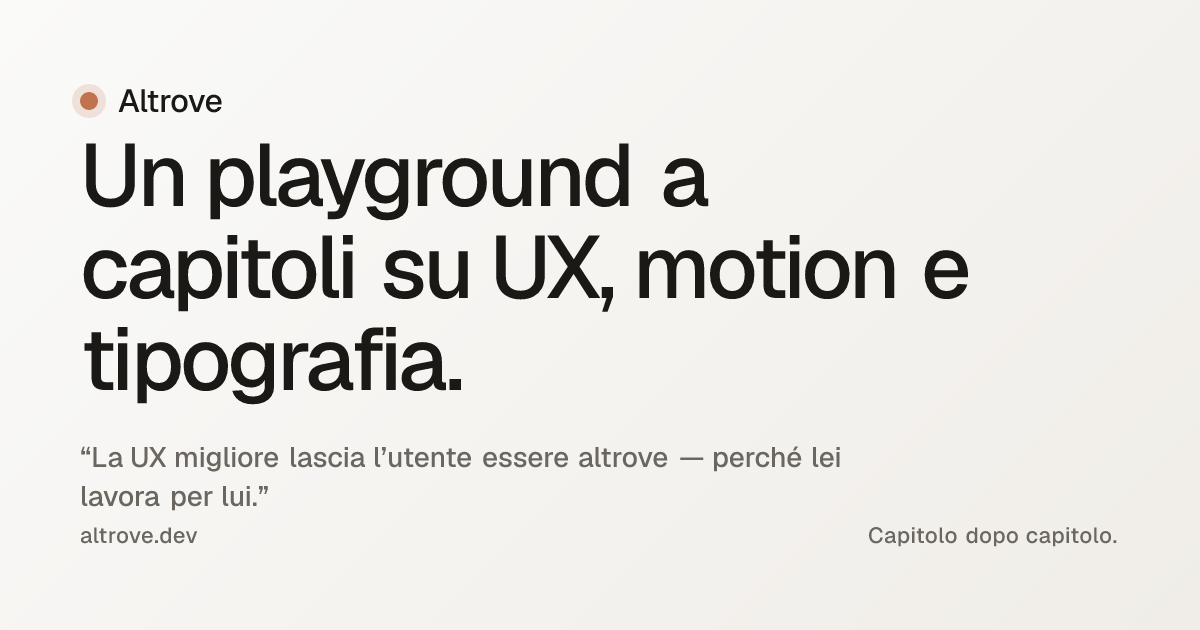
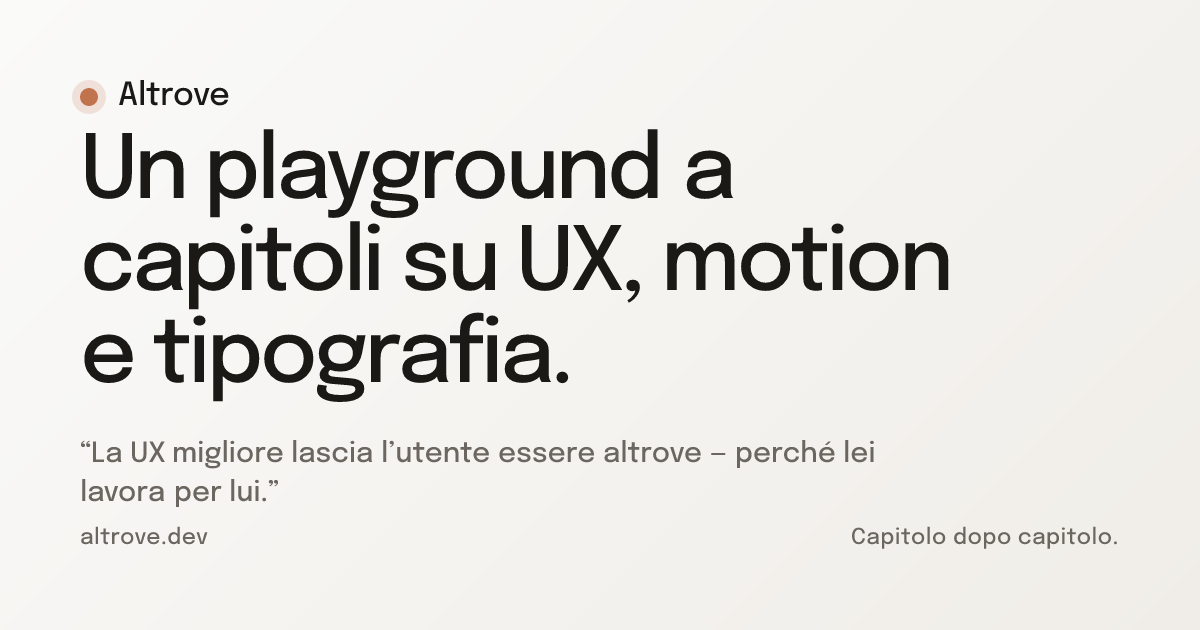
🔤 Swap typefaces: Geist → Epilogue (sans) + Inconsolata (mono)
Replaces the font stack across imports, tokens, OG generation and docs.
Verified in-browser that Epilogue genuinely composes the OpenType
features chapter 08's demo relies on (diagonal fractions + tabular
figures) and exposes a 100–900 wght axis, so demos 08.c/08.d keep
working honestly; updated their prose and the dead Geist-specific
feature-settings in typography.css. Regenerated og-default.png in
Epilogue and dropped the now-unused @fontsource geist packages.

diff --git a/src/styles/typography.css b/src/styles/typography.css
@@ -1,25 +1,19 @@
 /* ─────────────────────────────────────────────────────────────
    Altrove · typography.css — la voce del progetto.
 
-   Geist Variable per tutto. Le differenze le fa il peso, il
-   tracking e la dimensione, non famiglie diverse.
+   Epilogue per il testo, Inconsolata per il monospazio. Nel sans
+   le differenze le fa il peso, il tracking e la dimensione.
    ───────────────────────────────────────────────────────────── */
 
 @layer base {
   html {
     font-family: var(--font-sans);
     font-size: 16px;
-    /* Geist supporta queste opentype features:
-       cv11 = miglior 'a' singolo livello
-       ss03 = '0' con slash (utile per tabelle/cifre miste)
-       ss04 = ligature stilistiche tenui
-       Lo lasciamo discreto — le features attivano la "voce". */
-    font-feature-settings:
-      'cv11' 1,
-      'ss03' 1,
-      'ss04' 1;
-    /* Numeri tabulari per UI con cifre allineate */
-    font-variant-numeric: oldstyle-nums proportional-nums;
+    /* Le feature che Epilogue attiva di default (kern, legature comuni)
+       bastano. Niente set stilistici forzati a livello globale: le
+       feature OpenType si impostano dove servono davvero — vedi il
+       cap. 08, che le verifica nel font prima di prometterle. */
+    font-variant-numeric: proportional-nums;
   }
 
   body {
@@ -101,7 +95,6 @@
 
   code, kbd, samp, pre {
     font-family: var(--font-mono);
-    font-feature-settings: 'ss03' 1; /* zero con slash, leggibile */
   }
 
   code {

diff --git a/src/styles/tokens.css b/src/styles/tokens.css
@@ -47,8 +47,8 @@
   --accent-on:   light-dark(oklch(0.99 0.005 var(--hue-accent)), oklch(0.18 0.02 var(--hue-accent)));
 
   /* ═══════════ TIPOGRAFIA ═══════════ */
-  --font-sans:    'Geist Variable', ui-sans-serif, system-ui, -apple-system, 'Segoe UI', sans-serif;
-  --font-mono:    'Geist Mono Variable', ui-monospace, 'SF Mono', Consolas, 'Liberation Mono', monospace;
+  --font-sans:    'Epilogue Variable', ui-sans-serif, system-ui, -apple-system, 'Segoe UI', sans-serif;
+  --font-mono:    'Inconsolata Variable', ui-monospace, 'SF Mono', Consolas, 'Liberation Mono', monospace;
   --font-display: var(--font-sans);
 
   /* Scala fluida (clamp(min, ideal, max)) — base 16px, ratio ~1.2 */
@@ -78,7 +78,7 @@
   --tracking-wide:    0.04em;
   --tracking-wider:   0.12em;
 
-  /* Pesi (Geist Variable supporta 100–900) */
+  /* Pesi (Epilogue Variable supporta 100–900) */
   --weight-light:     300;
   --weight-regular:   400;
   --weight-medium:    500;

diff --git a/MISSION.md b/MISSION.md
@@ -79,7 +79,8 @@ Quattro preset (subtle / gentle / snappy / expressive), usati con coerenza. Nien
 | **Astro 6** | Content Collections mappano i capitoli, View Transitions API per le animazioni di navigazione, Islands per le interazioni complesse |
 | **CSS nativo** | `@layer`, OKLCH, `light-dark()`, `clamp()`, container queries — la palestra che cerco |
 | **Motion** (motion.dev) | Spring physics, gesture, vanilla JS — niente overhead di framework |
-| **Geist Variable** | Sans + Mono, variable font, clean senza essere freddo |
+| **Epilogue Variable** | Sans variabile (100–900) per testo e titoli — geometrico ma caldo |
+| **Inconsolata Variable** | Monospazio variabile per codice e dettagli tecnici |
 | **MDX** | I capitoli sono documenti con componenti dentro — il formato giusto per contenuto editoriale con demo interattive |
 
 ---

diff --git a/README.md b/README.md
@@ -42,7 +42,8 @@ I capitoli crescono lentamente. Un capitolo finito al 100% vale più di tre capi
 | [Astro](https://astro.build) | 6 | Content Collections, View Transitions, islands |
 | **CSS nativo** | — | `@layer`, OKLCH, `light-dark()`, `clamp()`, container queries |
 | [Motion](https://motion.dev) | 12 | Spring physics, gesture, vanilla JS |
-| **Geist Variable** | 5 | Sans + Mono variabili (Vercel) |
+| **Epilogue Variable** | 5 | Sans variabile (100–900) per testo e titoli |
+| **Inconsolata Variable** | 5 | Monospazio variabile per codice e dettagli |
 | **MDX** | — | I capitoli sono documenti con componenti dentro |
 
 Niente Tailwind, niente UI kit, niente starter. La palestra è scrivere CSS con `@layer`, custom properties e container queries.
